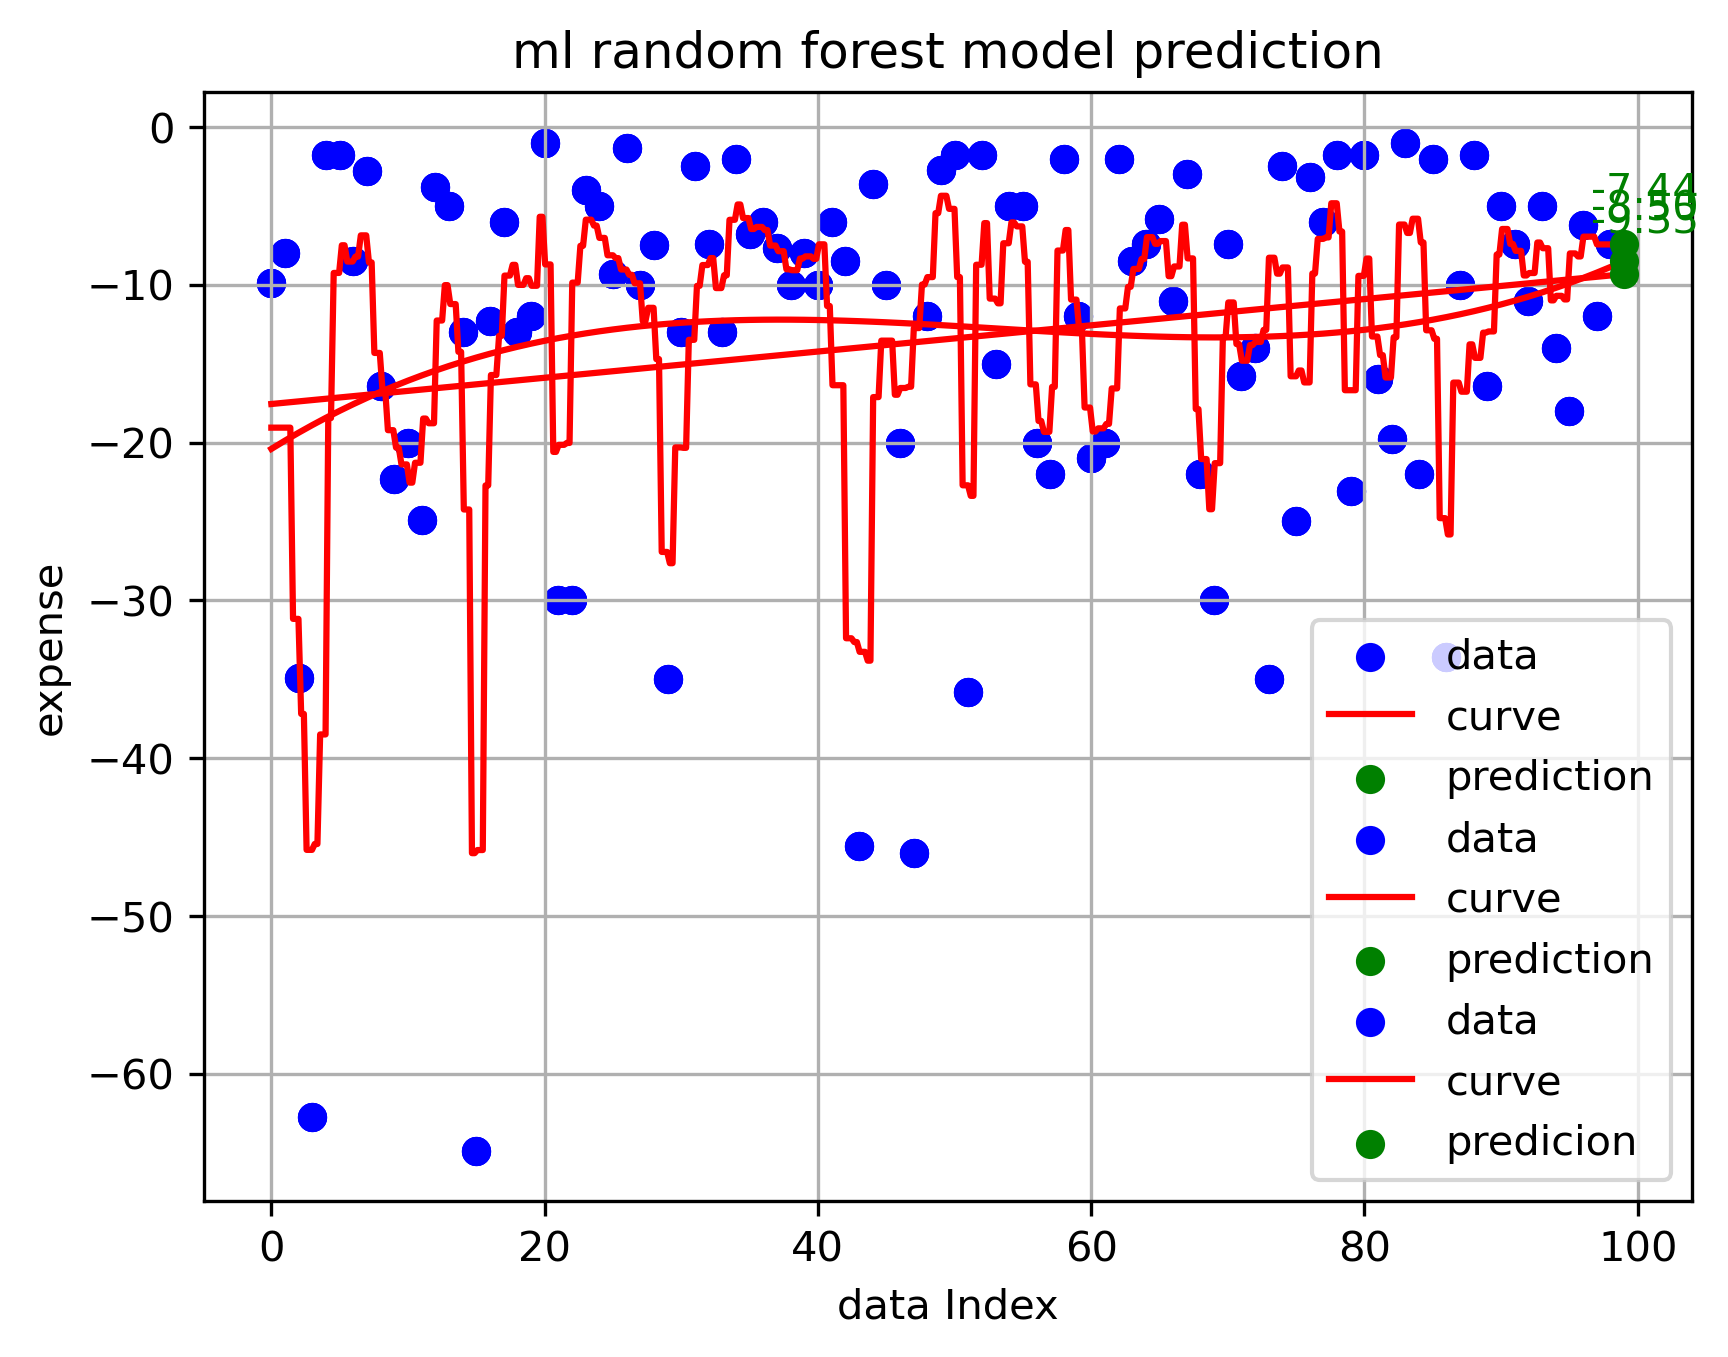
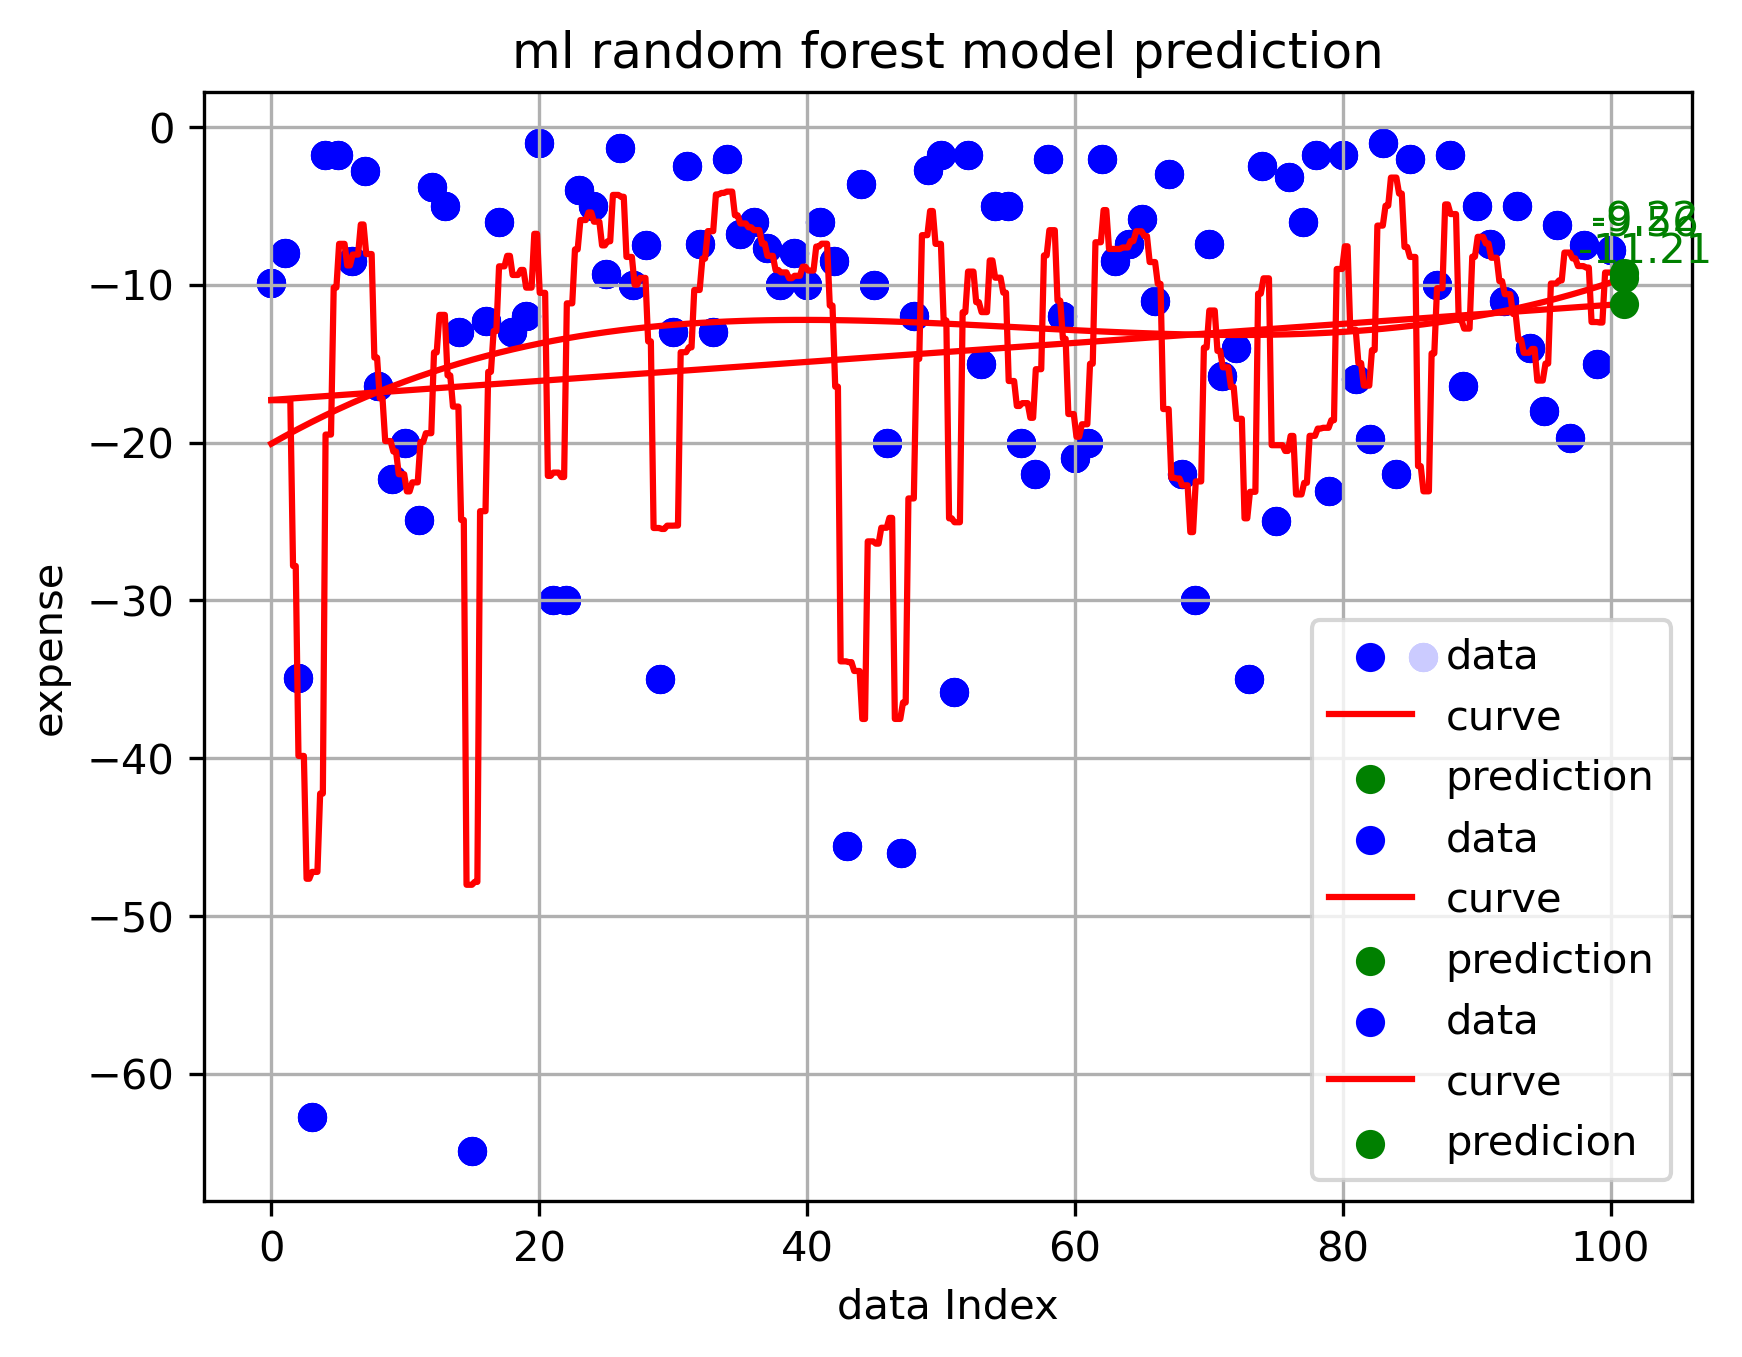
data update 11.22

diff --git a/ExpenseAnalysis/model_predictions.md b/ExpenseAnalysis/model_predictions.md
@@ -4,12 +4,12 @@
 ## 预测值列表
 | 序号 | 预测值 |
 | -------- | ----------------------- |
-| 1    | -8.49780              |
-| 2    | -9.32624              |
-| 3    | -7.44200              |
-| 4    | -9.09192              |
+| 1    | -9.56224              |
+| 2    | -11.20950              |
+| 3    | -9.22500              |
+| 4    | -10.26243              |
     
 ## 统计分析
-- **均值**: -8.59
-- **总体方差**: 0.53
-- **样本方差**: 0.71
+- **均值**: -10.06
+- **总体方差**: 0.58
+- **样本方差**: 0.77

diff --git a/Avg&Var/result.md b/Avg&Var/result.md
@@ -2,8 +2,8 @@
 
 ## 金额（可执行）数据分析
 
-- 平均值: -62.181428571428576
-- 方差: 1823.654032857143
+- 平均值: -60.72772727272727
+- 方差: 1780.1514755411258
 
 ## 日期出现次数统计
 
